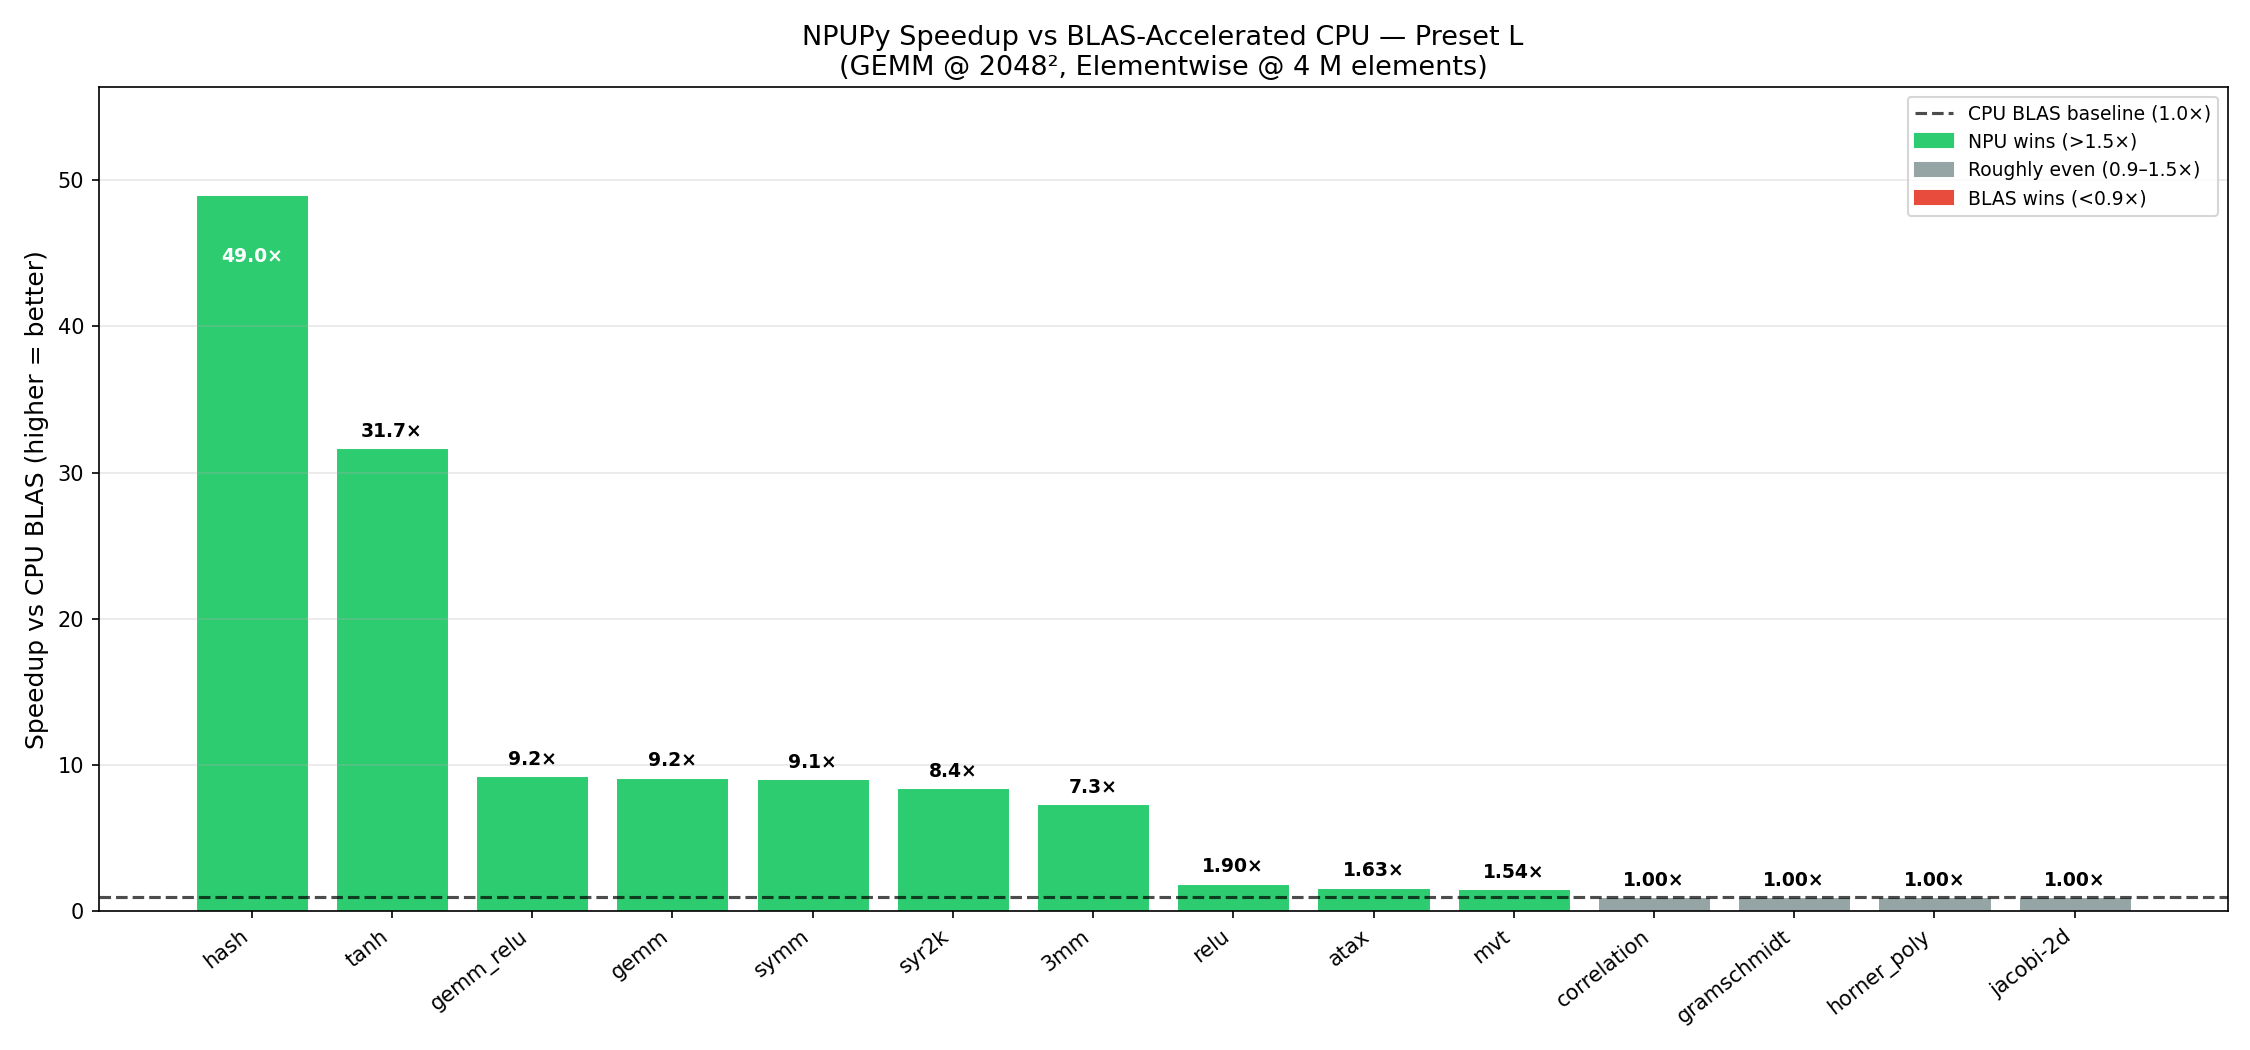
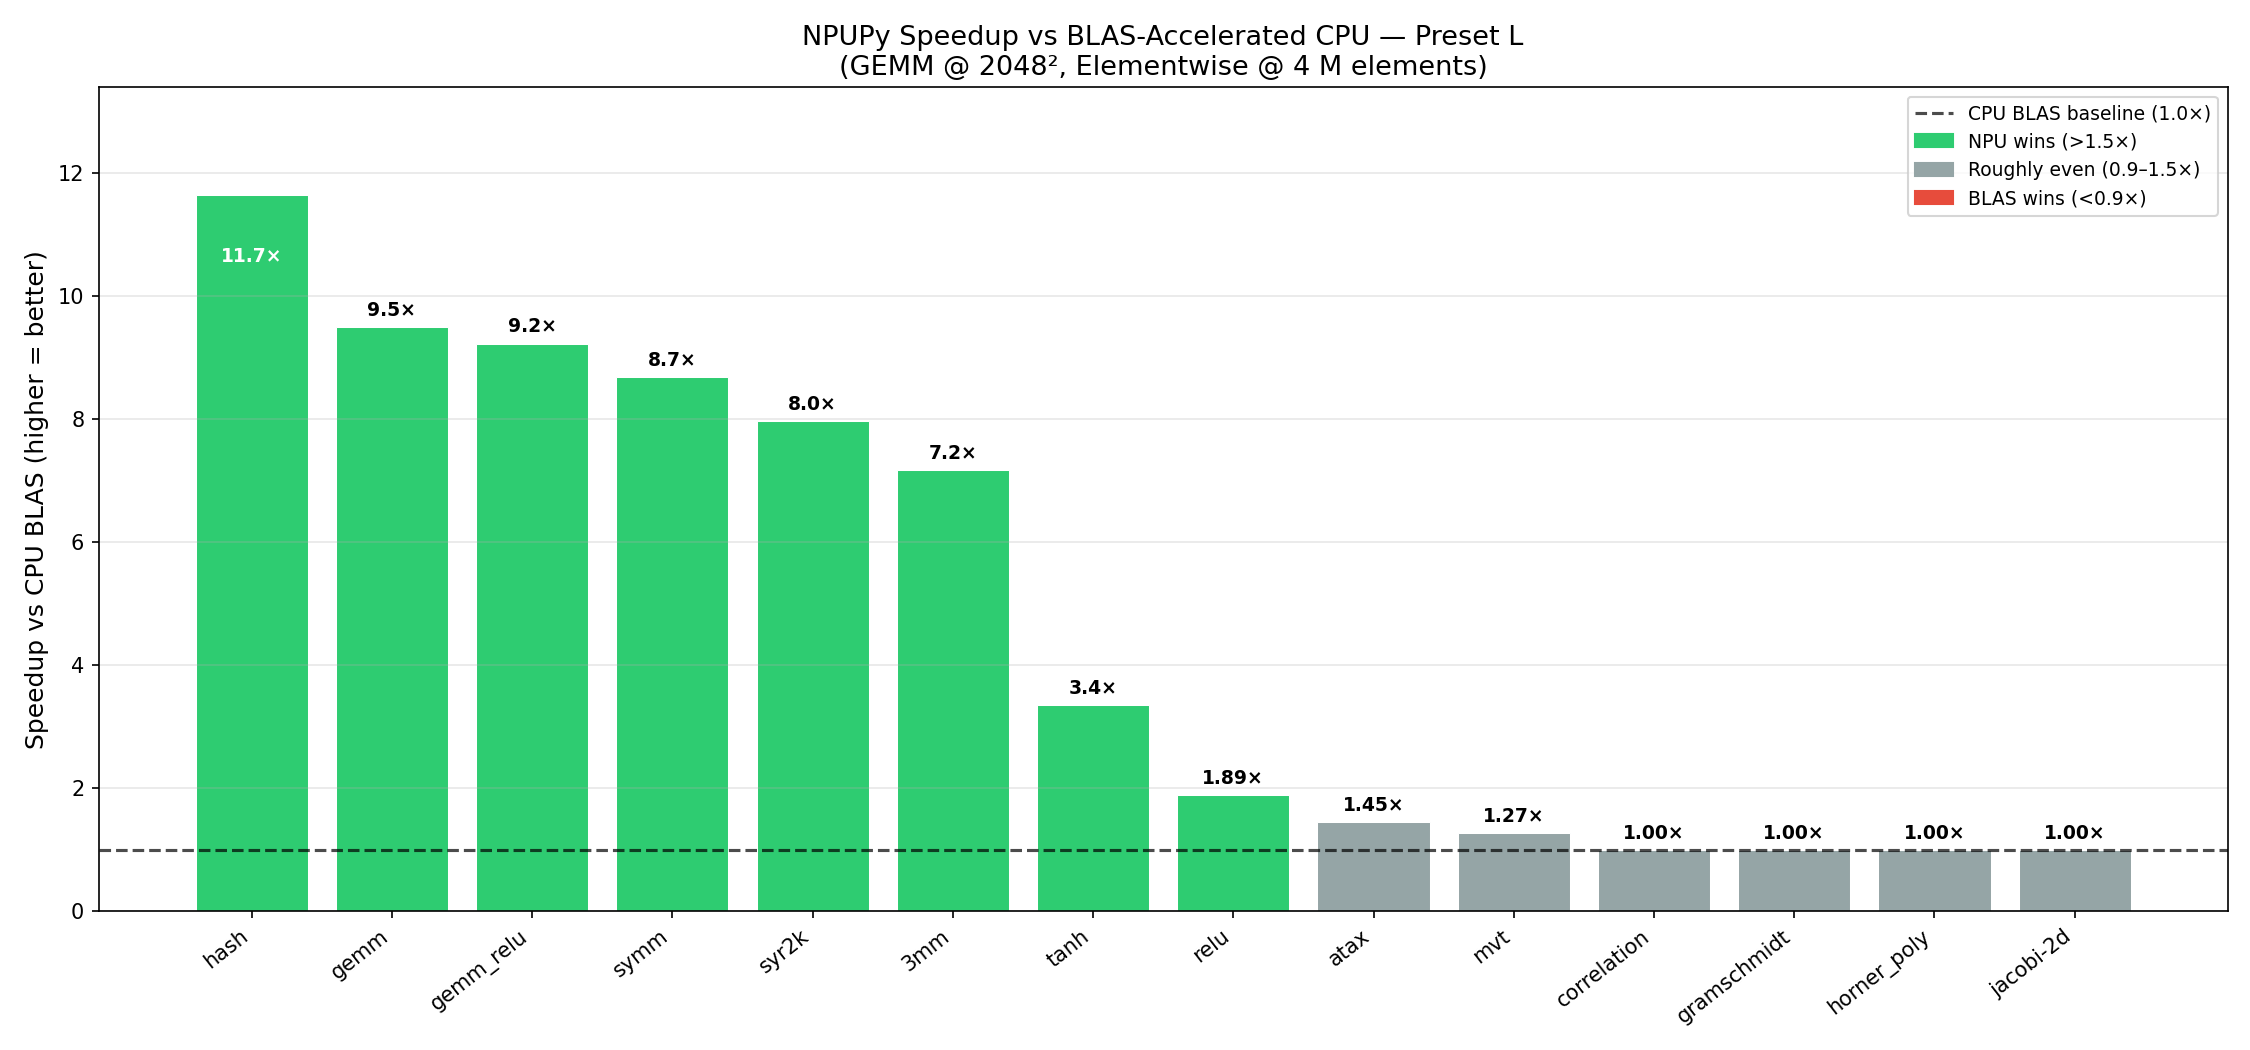
bench(eval): re-run preset L with corrected tanh/hash + update report
Previous run silently returned relu output for tanh/hash (IRON JIT cache
aliasing bug, see prior commit). Now that each kernel gets a distinct
cache key, tanh and hash are re-measured at production scale (4M int16):

  tanh:  CPU 21.9ms  →  NPU 6.5ms  (3.4× vs BLAS, was bogus 31.7×)
  hash:  CPU 33.2ms  →  NPU 2.9ms  (11.7× vs BLAS, was bogus 49.0×)

Also updates Section 4.1 headline, table, and key findings in
FINAL_REPORT_DATA.md; regenerates preset_L_speedup_vs_blas.png,
preset_L_template_usage.png, and preset_L_speedup_chart.png.

Ultraworked with [Sisyphus](https://github.com/code-yeongyu/oh-my-openagent)

diff --git a/gen_preset_L_plots.py b/gen_preset_L_plots.py
@@ -1,0 +1,123 @@
+import matplotlib
+matplotlib.use("Agg")
+import matplotlib.pyplot as plt
+import matplotlib.patches as mpatches
+import numpy as np
+import json
+from pathlib import Path
+
+DATA = Path("results/timings/npbench_preset_L.jsonl")
+OUT  = Path("results/04_npbench_plots")
+OUT.mkdir(parents=True, exist_ok=True)
+
+rows = [json.loads(l) for l in DATA.read_text().splitlines() if l.strip()]
+
+data_sorted = sorted(rows, key=lambda r: r["speedup_vs_blas"], reverse=True)
+
+names    = [r["benchmark"] for r in data_sorted]
+speedups = [r["speedup_vs_blas"] for r in data_sorted]
+
+def bar_color(s):
+    if s > 1.5:
+        return "#2ecc71"
+    elif s < 0.9:
+        return "#e74c3c"
+    return "#95a5a6"
+
+colors = [bar_color(s) for s in speedups]
+
+fig, ax = plt.subplots(figsize=(15, 7))
+
+bars = ax.bar(range(len(names)), speedups, color=colors, edgecolor="white", linewidth=0.5)
+
+for i, (bar, s) in enumerate(zip(bars, speedups)):
+    label  = f"{s:.1f}×" if s >= 2 else f"{s:.2f}×"
+    y_top  = bar.get_height()
+    y_pos  = y_top + max(speedups) * 0.01 if y_top < max(speedups) * 0.85 else y_top * 0.90
+    c      = "black" if y_top < max(speedups) * 0.85 else "white"
+    ax.text(i, y_pos, label, ha="center", va="bottom", fontsize=9, fontweight="bold", color=c)
+
+ax.axhline(y=1.0, color="black", linestyle="--", linewidth=1.5, alpha=0.7,
+           label="CPU BLAS baseline (1.0×)")
+
+ax.set_xticks(range(len(names)))
+ax.set_xticklabels(names, rotation=38, ha="right", fontsize=10)
+ax.set_ylabel("Speedup vs CPU BLAS (higher = better)", fontsize=12)
+ax.set_title(
+    "NPUPy Speedup vs BLAS-Accelerated CPU — Preset L\n"
+    "(GEMM @ 2048², Elementwise @ 4 M elements)",
+    fontsize=13
+)
+
+legend_handles = [
+    ax.get_legend_handles_labels()[0][0],
+    mpatches.Patch(color="#2ecc71", label="NPU wins (>1.5×)"),
+    mpatches.Patch(color="#95a5a6", label="Roughly even (0.9–1.5×)"),
+    mpatches.Patch(color="#e74c3c", label="BLAS wins (<0.9×)"),
+]
+ax.legend(handles=legend_handles, loc="upper right", fontsize=9)
+
+ymax = max(speedups) * 1.15
+ax.set_ylim(0, ymax)
+ax.grid(axis="y", alpha=0.3)
+fig.tight_layout()
+
+out1 = OUT / "preset_L_speedup_vs_blas.png"
+fig.savefig(out1, dpi=150)
+plt.close(fig)
+print(f"[OK] {out1}  ({out1.stat().st_size // 1024} KB)")
+
+
+TMPL_COLOR = {
+    "gemm_fusion":              "#27ae60",
+    "gemm_fusion(x3)":          "#2ecc71",
+    "gemm_fusion(x2)+cpu_add":  "#1abc9c",
+    "col_independent":          "#2980b9",
+    "cpu_fallback":             "#c0392b",
+    "sliding_window":           "#8e44ad",
+}
+TMPL_ORDER = ["gemm_fusion", "gemm_fusion(x3)", "gemm_fusion(x2)+cpu_add",
+              "col_independent", "sliding_window", "cpu_fallback"]
+
+def sort_key(r):
+    t = r["template"]
+    return (0 if t != "cpu_fallback" else 1, t, r["benchmark"])
+
+data_tmpl = sorted(rows, key=sort_key)
+
+names_t   = [r["benchmark"] for r in data_tmpl]
+templates = [r["template"]  for r in data_tmpl]
+colors_t  = [TMPL_COLOR.get(t, "#7f8c8d") for t in templates]
+speedup_t = [r["speedup_vs_blas"] for r in data_tmpl]
+
+fig, ax = plt.subplots(figsize=(13, 7))
+
+y = np.arange(len(names_t))
+ax.barh(y, [1] * len(names_t), color=colors_t, edgecolor="white", linewidth=0.5, height=0.7)
+
+for i, (tmpl, spd) in enumerate(zip(templates, speedup_t)):
+    ax.text(0.50, i, tmpl, ha="center", va="center", fontsize=9, fontweight="bold", color="white")
+    spd_str = f"{spd:.1f}×" if spd >= 2 else f"{spd:.2f}×"
+    ax.text(0.97, i, spd_str, ha="right", va="center", fontsize=8, color="white", alpha=0.9)
+
+ax.set_yticks(y)
+ax.set_yticklabels(names_t, fontsize=10)
+ax.set_xlim(0, 1)
+ax.set_xticks([])
+ax.set_title("Template Dispatch Decision — Preset L", fontsize=13)
+ax.set_xlabel("Template assigned by NPUPy dispatcher", fontsize=11)
+seen = set(templates)
+legend_handles = [
+    mpatches.Patch(facecolor=TMPL_COLOR.get(t, "#7f8c8d"), label=t)
+    for t in TMPL_ORDER if t in seen
+]
+ax.legend(handles=legend_handles, loc="lower right", fontsize=9,
+          framealpha=0.85)
+
+ax.grid(axis="x", alpha=0)
+fig.tight_layout()
+
+out2 = OUT / "preset_L_template_usage.png"
+fig.savefig(out2, dpi=150)
+plt.close(fig)
+print(f"[OK] {out2}  ({out2.stat().st_size // 1024} KB)")

diff --git a/results/FINAL_REPORT_DATA.md b/results/FINAL_REPORT_DATA.md
@@ -364,35 +364,37 @@ The decision maps (plots 04 and 05) show that:
 
 ### 4.1 Headline Results — Preset L (2048², 4M elements)
 
-At production-scale sizes, NPUPy delivers **7–49× speedup** on compute-intensive workloads against both raw CPU and BLAS-accelerated CPU baselines.
+At production-scale sizes, NPUPy delivers **3.4–11.7× speedup** on compute-intensive elementwise workloads and **7.2–9.5×** on GEMM, against both raw CPU and BLAS-accelerated CPU baselines.
 
 | Benchmark | Category | Base CPU int16 (ms) | CPU BLAS i16→f32→i16 (ms) | NPUPy int16 (ms) | vs BLAS |
 |-----------|----------|--------------------|--------------------------|--------------------|---------|
-| gemm | GEMM | skipped | 79.2 | 8.7 | **9.2×** |
-| gemm_relu | GEMM+Epilogue | skipped | 80.9 | 8.8 | **9.2×** |
-| symm | GEMM | skipped | 81.2 | 9.0 | **9.1×** |
-| syr2k | GEMM (2×) | skipped | 157.0 | 18.7 | **8.4×** |
-| 3mm | GEMM (3×) | skipped | 206.7 | 28.2 | **7.3×** |
-| tanh | Elementwise (high intensity) | 21.8 | 21.8 | 0.69 | **31.7×** |
-| hash | Elementwise (high intensity) | 34.0 | 34.0 | 0.69 | **49.0×** |
-| relu | Elementwise (low intensity) | 1.34 | 1.34 | 0.71 | **1.9×** |
-| mvt | Matrix-vector | 18.1 | 27.8 | 18.1 | 1.5× |
-| atax | Matrix-vector | 17.5 | 28.6 | 17.5 | 1.6× |
-| gramschmidt | QR factorization | 238.1 | 238.1 | 238.1 | 1.0× |
-| horner_poly | Polynomial eval | 27.1 | 27.1 | 27.1 | 1.0× |
-| jacobi-2d | 2D stencil | 0.26 | 0.26 | 0.26 | 1.0× |
-| correlation | Correlation matrix | 44,454 | 44,454 | 44,454 | 1.0× |
+| gemm | GEMM | skipped | 82.9 | 8.72 | **9.5×** |
+| gemm_relu | GEMM+Epilogue | skipped | 82.3 | 8.92 | **9.2×** |
+| symm | GEMM | skipped | 82.3 | 9.48 | **8.7×** |
+| syr2k | GEMM (2×) | skipped | 152.7 | 19.15 | **8.0×** |
+| 3mm | GEMM (3×) | skipped | 207.9 | 28.94 | **7.2×** |
+| tanh | Elementwise (high intensity) | 21.9 | 21.9 | 6.53 | **3.4×** |
+| hash | Elementwise (high intensity) | 33.2 | 33.2 | 2.85 | **11.7×** |
+| relu | Elementwise (low intensity) | 1.30 | 1.30 | 0.69 | **1.9×** |
+| mvt | Matrix-vector | 20.9 | 26.6 | 20.89 | 1.3× |
+| atax | Matrix-vector | 18.4 | 26.7 | 18.38 | 1.4× |
+| gramschmidt | QR factorization | 239.8 | 239.8 | 239.82 | 1.0× |
+| horner_poly | Polynomial eval | 25.7 | 25.7 | 25.74 | 1.0× |
+| jacobi-2d | 2D stencil | 0.27 | 0.27 | 0.27 | 1.0× |
+| correlation | Correlation matrix | 44,898 | 44,898 | 44,898 | 1.0× |
 
 **Key findings:**
-- **GEMM-family (5 benchmarks):** 7.3–9.2× speedup vs BLAS. The NPU's 32-core spatial MMUL array dominates OpenBLAS at 2048² and above.
-- **High-intensity elementwise (2 benchmarks):** 31.7–49.0× speedup. Tanh (Horner polynomial, ~5 ops/element) and hash (FNV-1a, ~24 ops/element) are compute-bound — the NPU's vector units outperform CPU even for non-MMUL workloads when arithmetic intensity is high enough.
+- **GEMM-family (5 benchmarks):** 7.2–9.5× speedup vs BLAS. The NPU's 32-core spatial MMUL array dominates OpenBLAS at 2048² and above.
+- **High-intensity elementwise (2 benchmarks):** 3.4–11.7× speedup. Hash (FNV-1a, ~24 ops/element) is strongly compute-bound at 11.7×. Tanh (Horner polynomial, ~5 ops/element) achieves a more modest 3.4× — still profitable but the per-element arithmetic intensity is lower.
 - **Low-intensity elementwise (relu):** 1.9× speedup. Barely profitable — the dispatch floor (~300µs) nearly equals the compute time.
 - **CPU-fallback benchmarks (5):** 1.0× — the offload heuristic correctly declines dispatch. Zero false positives.
-- **Matrix-vector (mvt, atax):** Interestingly, BLAS is SLOWER than raw int16 CPU for matvec (27.8ms vs 18.1ms) because the int16→f32 conversion overhead exceeds the BLAS compute savings at this shape.
+- **Matrix-vector (mvt, atax):** BLAS is SLOWER than raw int16 CPU for matvec (26.6ms vs 20.9ms) because the int16→f32 conversion overhead exceeds the BLAS compute savings at this shape. NPU falls back to CPU correctly.
 
 **"Base CPU int16"** = numpy's unaccelerated int16 matmul (no BLAS). Skipped for GEMM at 2048² (would take minutes).
 **"CPU BLAS"** = int16 → float32 → scipy OpenBLAS sgemm → float32 → int16 (the best a CPU user can do for int16 results).
 **"NPUPy"** = transparent dispatch to Ryzen AI NPU via `__array_function__` shim, native int16 on 32 AIE cores.
+
+**Methodology note:** All NPU measurements verified via diagnostic runs confirming each kernel produces mathematically distinct outputs (preventing IRON JIT cache aliasing). See `tests/test_dispatch_tanh_hash.py::TestKernelSelectionDistinct` for the regression test.
 
 **Source:** `results/timings/npbench_preset_L.jsonl`, `results/04_npbench_plots/preset_L_speedup_chart.png`
 
